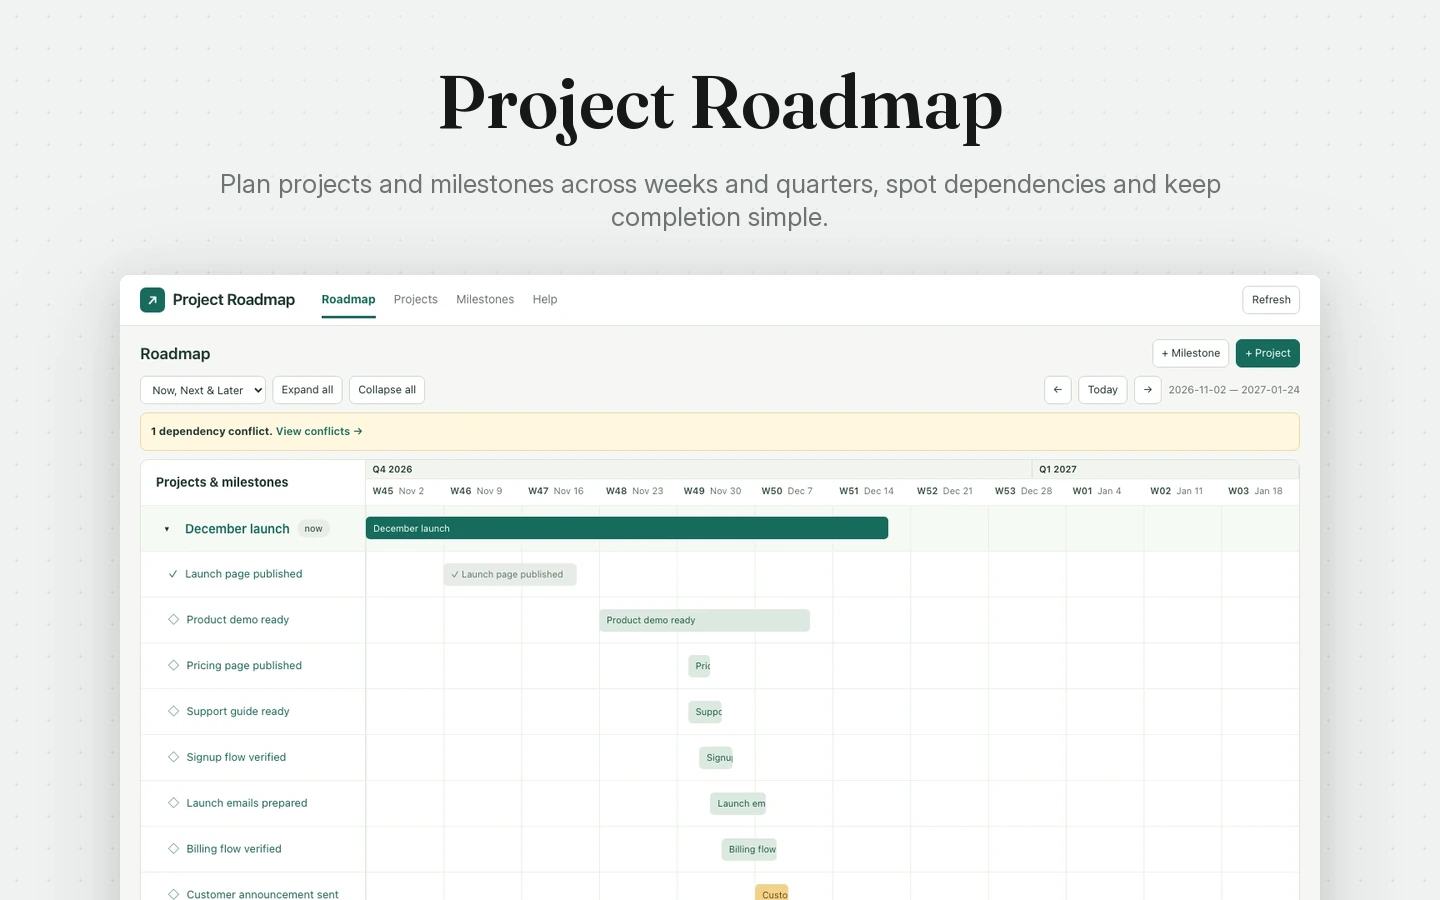
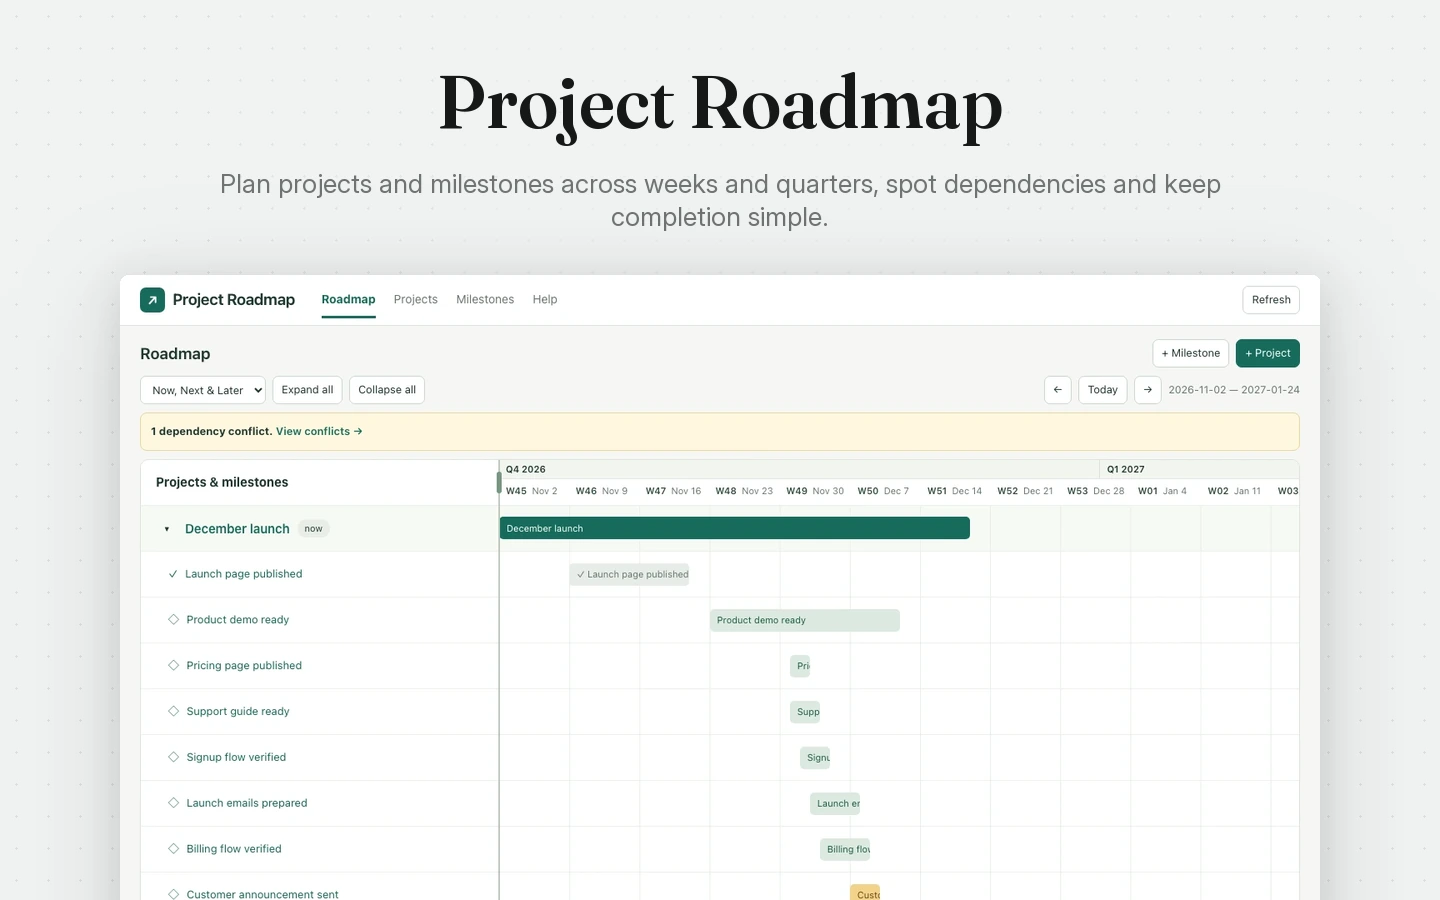
feat(project-roadmap): add a resizable name column

Changed region(s): [[0.25, 0.4978, 0.9062, 0.7467], [0.4688, 0.7778, 0.625, 1.0]]

diff --git a/templates/busa-project-roadmap/content/busa-project-roadmap-app/app/js/app.js b/templates/busa-project-roadmap/content/busa-project-roadmap-app/app/js/app.js
@@ -1,3 +1,4 @@
+import { createRoadmapResizer } from "./roadmap-resize.js";
 import { airAppWriteMessage } from "../vendor/busabase-airapp.js";
 import { getRuntime, shouldUseLocalGateway } from "./runtime.js";
 import { createAirAppConnectGate } from "../vendor/busabase-airapp-gate.js";
@@ -35,6 +36,7 @@ function rememberCollapsed() {
     notify("Your browser could not save the roadmap display preference.");
   }
 }
+const syncRoadmapWidth = createRoadmapResizer(root, `project-roadmap:column-width:v1:${location.pathname}:${demo ? "demo" : "live"}`);
 const state = {
   projects: [],
   milestones: [],
@@ -85,6 +87,7 @@ function render() {
     shell(state.project ? projectDetail() : projects());
   else if (state.screen === "milestones") shell(milestones());
   else shell(help());
+  syncRoadmapWidth();
 }
 function bar(row, kind, first) {
   const f = row.fields,
@@ -122,7 +125,7 @@ function roadmap() {
   const conflicts = attention.filter((i) => i.kind === "conflict");
   return (
     `<div class="roadmap-heading"><h2>Roadmap</h2><div class="actions"><button data-new="milestones">+ Milestone</button><button class="primary" data-new="projects">+ Project</button></div></div>` +
-    `<div class="toolbar"><div class="actions"><label for="lane" class="sr-only">Roadmap horizon</label><select id="lane"><option value="all">Now, Next & Later</option>${["now", "next", "later"].map((l) => `<option ${state.lane === l ? "selected" : ""} value="${l}">${l[0].toUpperCase() + l.slice(1)}</option>`).join("")}</select><button data-action="expand-all">Expand all</button><button data-action="collapse-all">Collapse all</button></div><div class="actions"><button data-shift="-84" aria-label="Previous twelve weeks">←</button><button data-action="today">Today</button><button data-shift="84" aria-label="Next twelve weeks">→</button><small>${e(first)} — ${addDays(first, 83)}</small></div></div>${attention.length ? `<div class="warning"><b>${conflicts.length ? `${conflicts.length} dependency conflict${conflicts.length === 1 ? "" : "s"}.` : "Dependencies need attention."}</b> <button class="text-button" data-action="conflicts">${attention.length === conflicts.length ? "View conflicts" : "Review dependencies"} →</button></div>` : ""}<div class="timeline"><div class="timeline-inner"><div class="timeline-row"><div class="row-label"><b>Projects & milestones</b></div><div class="calendar-header"><div class="quarter-grid">${quarters.map((q) => `<span style="grid-column:span ${q.days}">${e(q.label)}</span>`).join("")}</div><div class="week-grid">${columns.map((w) => `<span><b>${e(w.label.split(" · ")[0])}</b> ${new Intl.DateTimeFormat("en", { month: "short", day: "numeric", timeZone: "UTC" }).format(date(w.day))}</span>`).join("")}</div></div></div>${
+    `<div class="toolbar"><div class="actions"><label for="lane" class="sr-only">Roadmap horizon</label><select id="lane"><option value="all">Now, Next & Later</option>${["now", "next", "later"].map((l) => `<option ${state.lane === l ? "selected" : ""} value="${l}">${l[0].toUpperCase() + l.slice(1)}</option>`).join("")}</select><button data-action="expand-all">Expand all</button><button data-action="collapse-all">Collapse all</button></div><div class="actions"><button data-shift="-84" aria-label="Previous twelve weeks">←</button><button data-action="today">Today</button><button data-shift="84" aria-label="Next twelve weeks">→</button><small>${e(first)} — ${addDays(first, 83)}</small></div></div>${attention.length ? `<div class="warning"><b>${conflicts.length ? `${conflicts.length} dependency conflict${conflicts.length === 1 ? "" : "s"}.` : "Dependencies need attention."}</b> <button class="text-button" data-action="conflicts">${attention.length === conflicts.length ? "View conflicts" : "Review dependencies"} →</button></div>` : ""}<div class="timeline"><div class="timeline-inner" id="roadmap-grid"><div class="roadmap-divider" role="separator" tabindex="0" aria-label="Resize project and milestone column" aria-orientation="vertical" aria-controls="roadmap-grid" aria-valuemin="180" title="Drag to resize. Arrow keys adjust width; double-click or Enter resets it."></div><div class="timeline-row"><div class="row-label"><b>Projects & milestones</b></div><div class="calendar-header"><div class="quarter-grid">${quarters.map((q) => `<span style="grid-column:span ${q.days}">${e(q.label)}</span>`).join("")}</div><div class="week-grid">${columns.map((w) => `<span><b>${e(w.label.split(" · ")[0])}</b> ${new Intl.DateTimeFormat("en", { month: "short", day: "numeric", timeZone: "UTC" }).format(date(w.day))}</span>`).join("")}</div></div></div>${
       visible
         .map(
           (p) =>

diff --git a/templates/busa-project-roadmap/content/busa-project-roadmap-app/app/js/roadmap-resize.js b/templates/busa-project-roadmap/content/busa-project-roadmap-app/app/js/roadmap-resize.js
@@ -1,0 +1,73 @@
+// Only the presentation width is stored; workspace records are never changed.
+export function createRoadmapResizer(root, storageKey) {
+  let preferredWidth = null;
+  let drag = null;
+  try {
+    const saved = Number(localStorage.getItem(storageKey));
+    if (Number.isFinite(saved) && saved >= 180 && saved <= 640) preferredWidth = saved;
+  } catch {}
+  const maximum = () => Math.max(220, Math.min(640, window.innerWidth - 64));
+  const defaultWidth = () => window.innerWidth <= 700 ? 220 : 270;
+  const clamp = (width) => Math.round(Math.max(180, Math.min(maximum(), width)));
+  const sync = () => {
+    const width = clamp(preferredWidth ?? defaultWidth());
+    root.style.setProperty("--roadmap-label-width", `${width}px`);
+    const handle = root.querySelector(".roadmap-divider");
+    if (handle) {
+      handle.setAttribute("aria-valuenow", width);
+      handle.setAttribute("aria-valuemax", maximum());
+      handle.setAttribute("aria-valuetext", `${width} pixels`);
+    }
+    return width;
+  };
+  const remember = () => {
+    try {
+      if (preferredWidth === null) localStorage.removeItem(storageKey);
+      else localStorage.setItem(storageKey, String(preferredWidth));
+    } catch {}
+  };
+  const reset = () => { preferredWidth = null; sync(); remember(); };
+  root.addEventListener("pointerdown", (event) => {
+    const handle = event.target.closest(".roadmap-divider");
+    if (!handle || event.button !== 0 || drag) return;
+    event.preventDefault();
+    handle.focus({ preventScroll: true });
+    drag = { id: event.pointerId, x: event.clientX, width: sync(), previous: preferredWidth };
+    handle.setPointerCapture(event.pointerId);
+    document.body.classList.add("resizing-roadmap");
+  });
+  root.addEventListener("pointermove", (event) => {
+    if (!drag || event.pointerId !== drag.id) return;
+    preferredWidth = clamp(drag.width + event.clientX - drag.x);
+    sync();
+  });
+  const finish = (event) => {
+    if (!drag || event.pointerId !== drag.id) return;
+    if (event.type === "pointercancel") preferredWidth = drag.previous;
+    drag = null;
+    document.body.classList.remove("resizing-roadmap");
+    sync();
+    remember();
+  };
+  root.addEventListener("pointerup", finish);
+  root.addEventListener("pointercancel", finish);
+  root.addEventListener("lostpointercapture", finish);
+  root.addEventListener("dblclick", (event) => {
+    if (event.target.closest(".roadmap-divider")) reset();
+  });
+  root.addEventListener("keydown", (event) => {
+    if (!event.target.matches(".roadmap-divider")) return;
+    const step = event.shiftKey ? 50 : 20;
+    if (event.key === "ArrowLeft") preferredWidth = clamp(sync() - step);
+    else if (event.key === "ArrowRight") preferredWidth = clamp(sync() + step);
+    else if (event.key === "Home") preferredWidth = 180;
+    else if (event.key === "End") preferredWidth = maximum();
+    else if (event.key === "Enter") { event.preventDefault(); reset(); return; }
+    else return;
+    event.preventDefault();
+    sync();
+    remember();
+  });
+  window.addEventListener("resize", sync);
+  return sync;
+}

diff --git a/templates/busa-project-roadmap/content/busa-project-roadmap-app/app/roadmap.css b/templates/busa-project-roadmap/content/busa-project-roadmap-app/app/roadmap.css
@@ -172,11 +172,12 @@ main {
   border-radius: 10px;
 }
 .timeline-inner {
-  min-width: 1280px;
+  position: relative;
+  min-width: calc(var(--roadmap-label-width, 270px) + 1010px);
 }
 .timeline-row {
   display: grid;
-  grid-template-columns: 270px 1fr;
+  grid-template-columns: var(--roadmap-label-width, 270px) minmax(0, 1fr);
   border-bottom: 1px solid #edf0eb;
   min-height: 55px;
 }
@@ -429,10 +430,10 @@ textarea {
     gap: 20px;
   }
   .timeline-inner {
-    min-width: 1150px;
+    min-width: calc(var(--roadmap-label-width, 220px) + 930px);
   }
   .timeline-row {
-    grid-template-columns: 220px 1fr;
+    grid-template-columns: var(--roadmap-label-width, 220px) minmax(0, 1fr);
   }
   .list {
     min-width: 650px;
@@ -665,4 +666,50 @@ main {
   .toolbar > .actions {
     gap: 6px;
   }
+}
+
+.roadmap-divider {
+  position: absolute;
+  z-index: 3;
+  top: 0;
+  bottom: 0;
+  left: calc(var(--roadmap-label-width, 270px) - 6px);
+  width: 12px;
+  cursor: col-resize;
+  touch-action: none;
+  outline: none;
+}
+.roadmap-divider::before {
+  content: "";
+  position: absolute;
+  left: 5px;
+  top: 0;
+  bottom: 0;
+  width: 2px;
+  background: #bec9be;
+}
+.roadmap-divider::after {
+  content: "";
+  position: absolute;
+  top: 14px;
+  left: 3px;
+  width: 6px;
+  height: 26px;
+  border-radius: 4px;
+  background: #789582;
+}
+.roadmap-divider:hover::before,
+.roadmap-divider:focus-visible::before,
+.resizing-roadmap .roadmap-divider::before {
+  background: #216e4d;
+  width: 3px;
+}
+.roadmap-divider:focus-visible::after {
+  outline: 2px solid #216e4d;
+  outline-offset: 3px;
+}
+.resizing-roadmap,
+.resizing-roadmap * {
+  cursor: col-resize !important;
+  user-select: none !important;
 }
